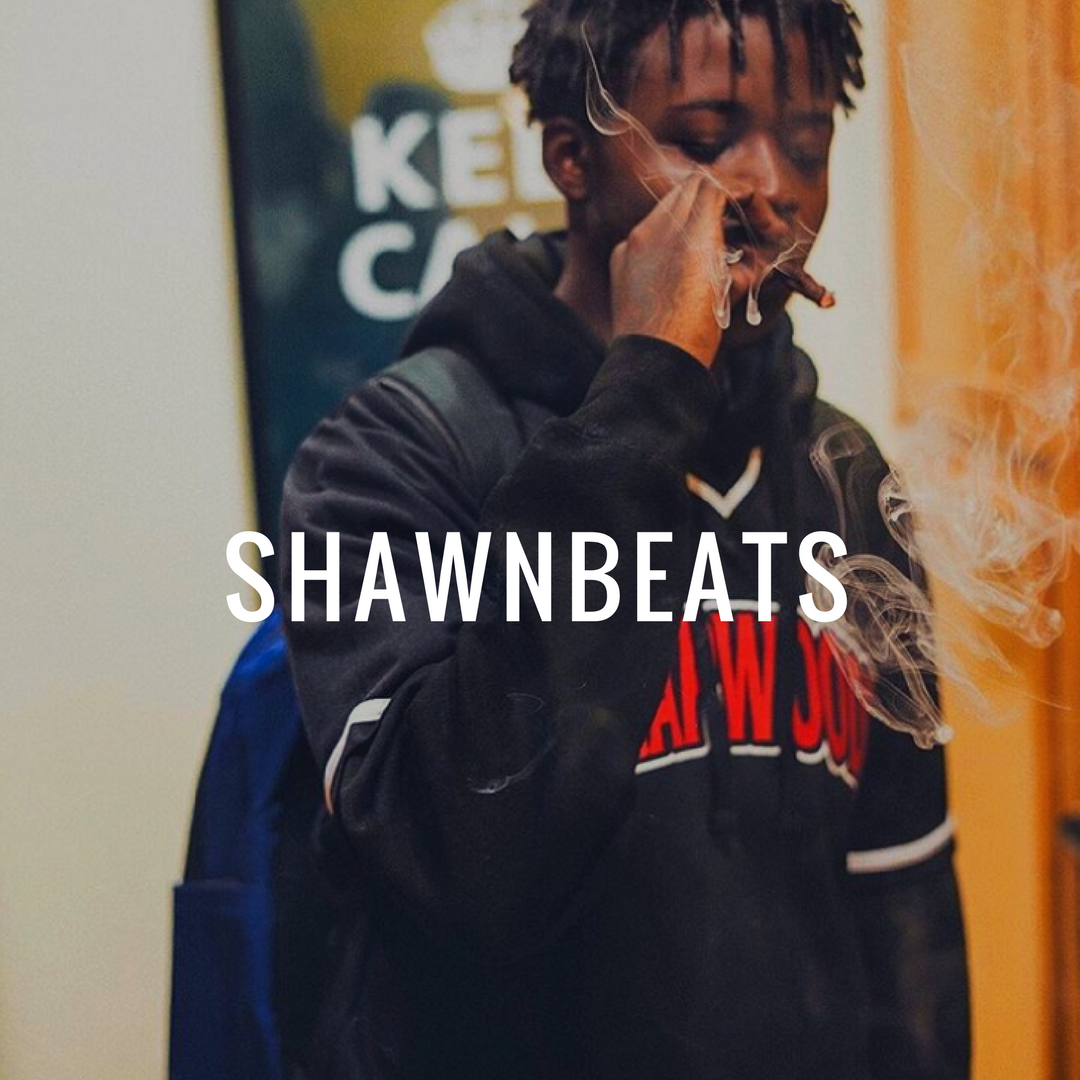
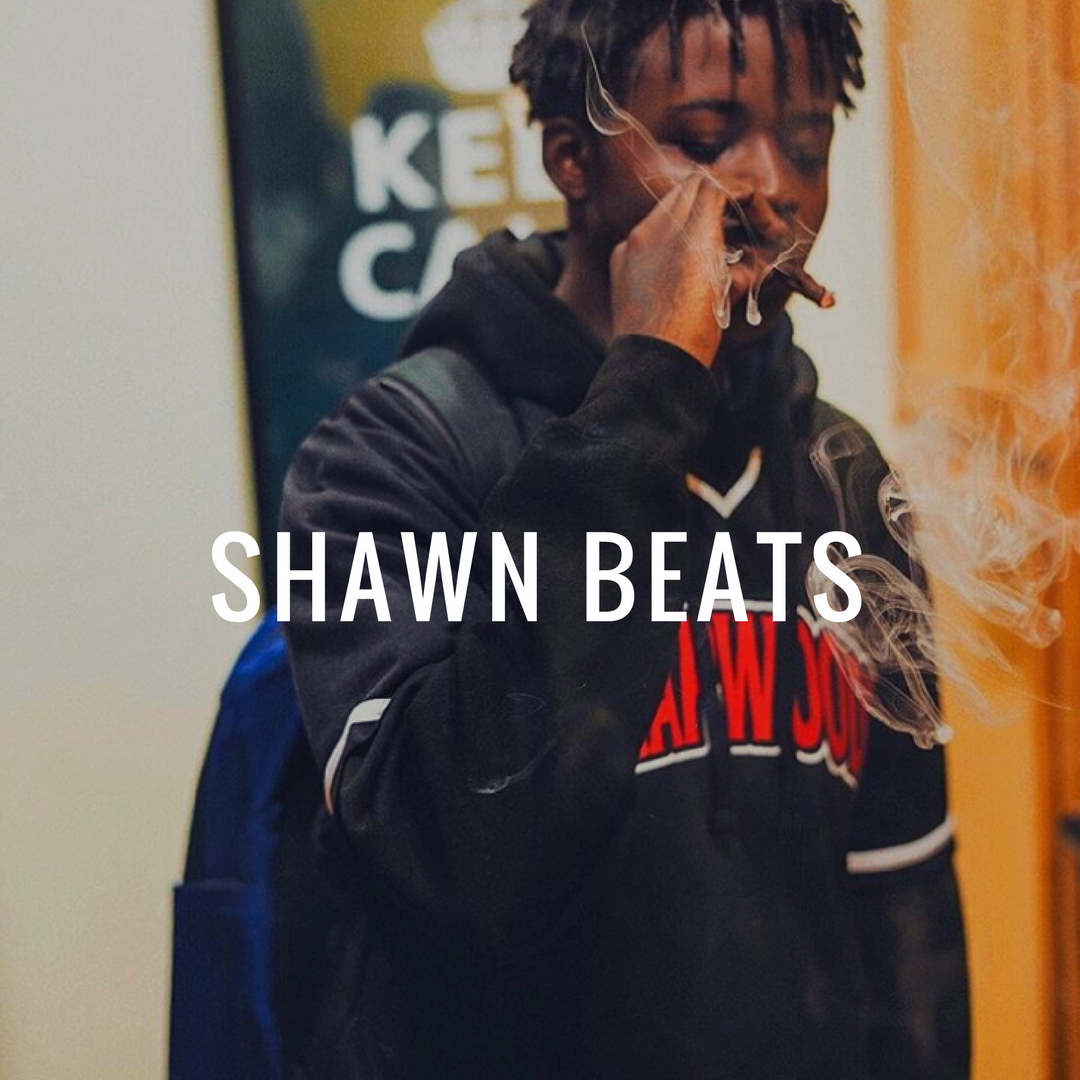
fixed shawnbeats

Changed region(s): [[0.1833, 0.4889, 0.7944, 0.5806]]

diff --git a/index.html b/index.html
@@ -30,7 +30,7 @@
 						<div class="inner">
 							<h2>
 								<br>
-<img width="500px" height = "500px" src="images/mountains.png" alt="ShawnBeats"> <br>
+<img width="500px" height = "500px" src="images/shawnbeats.png" alt="ShawnBeats"> <br>
 							</h2> 
 							
 							<p>Website Under Construction<br />
